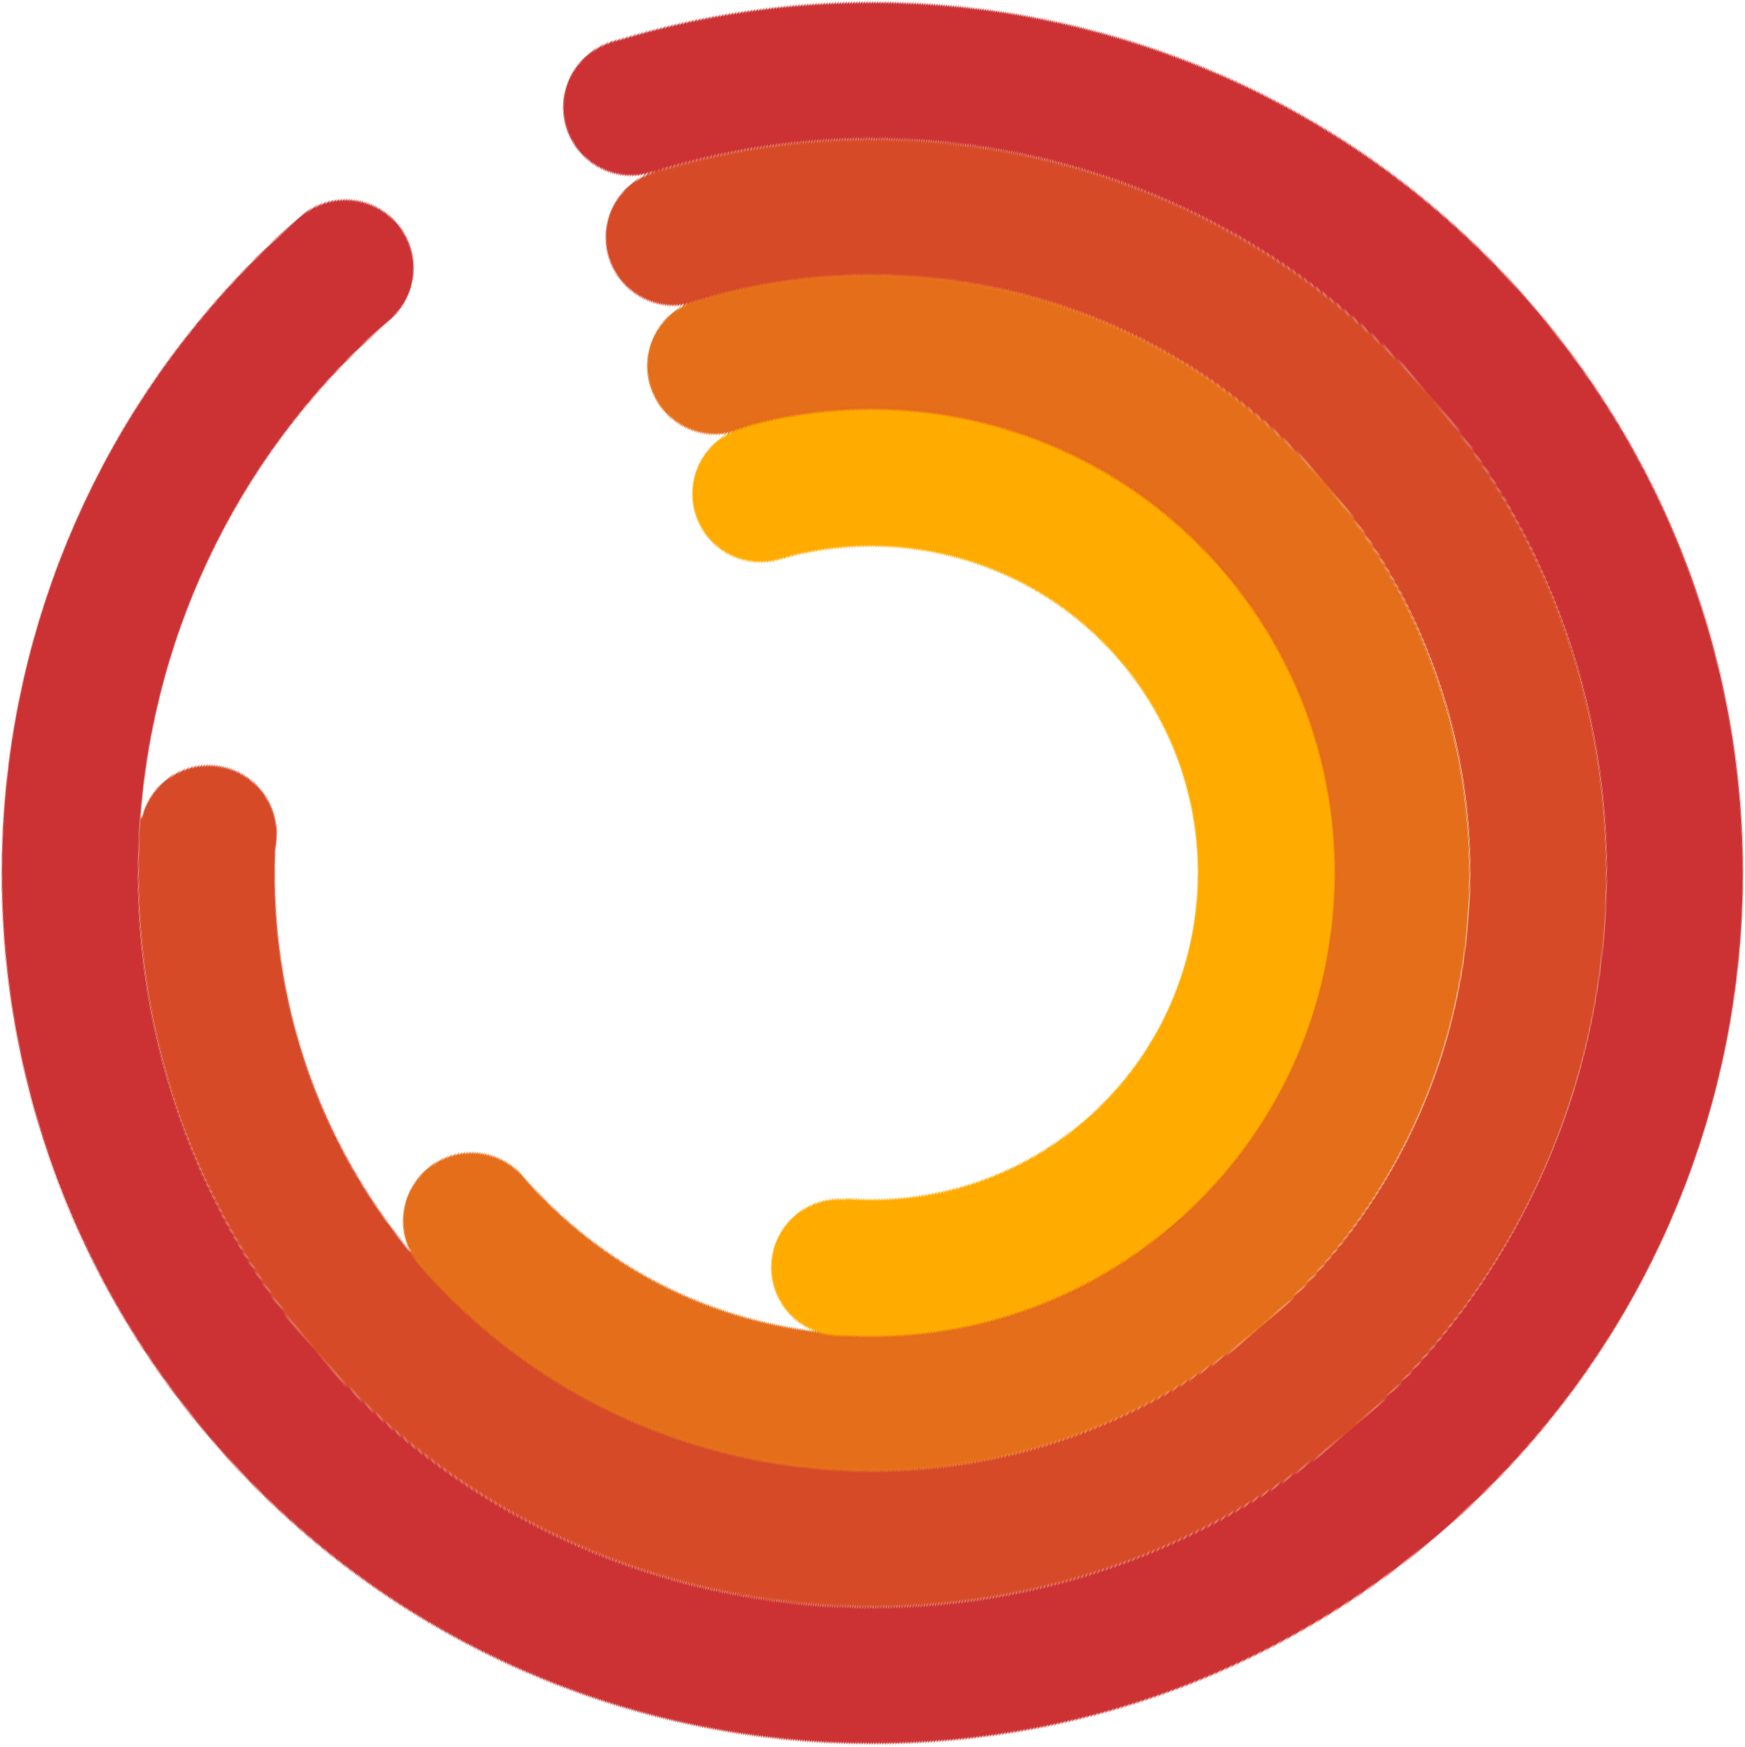
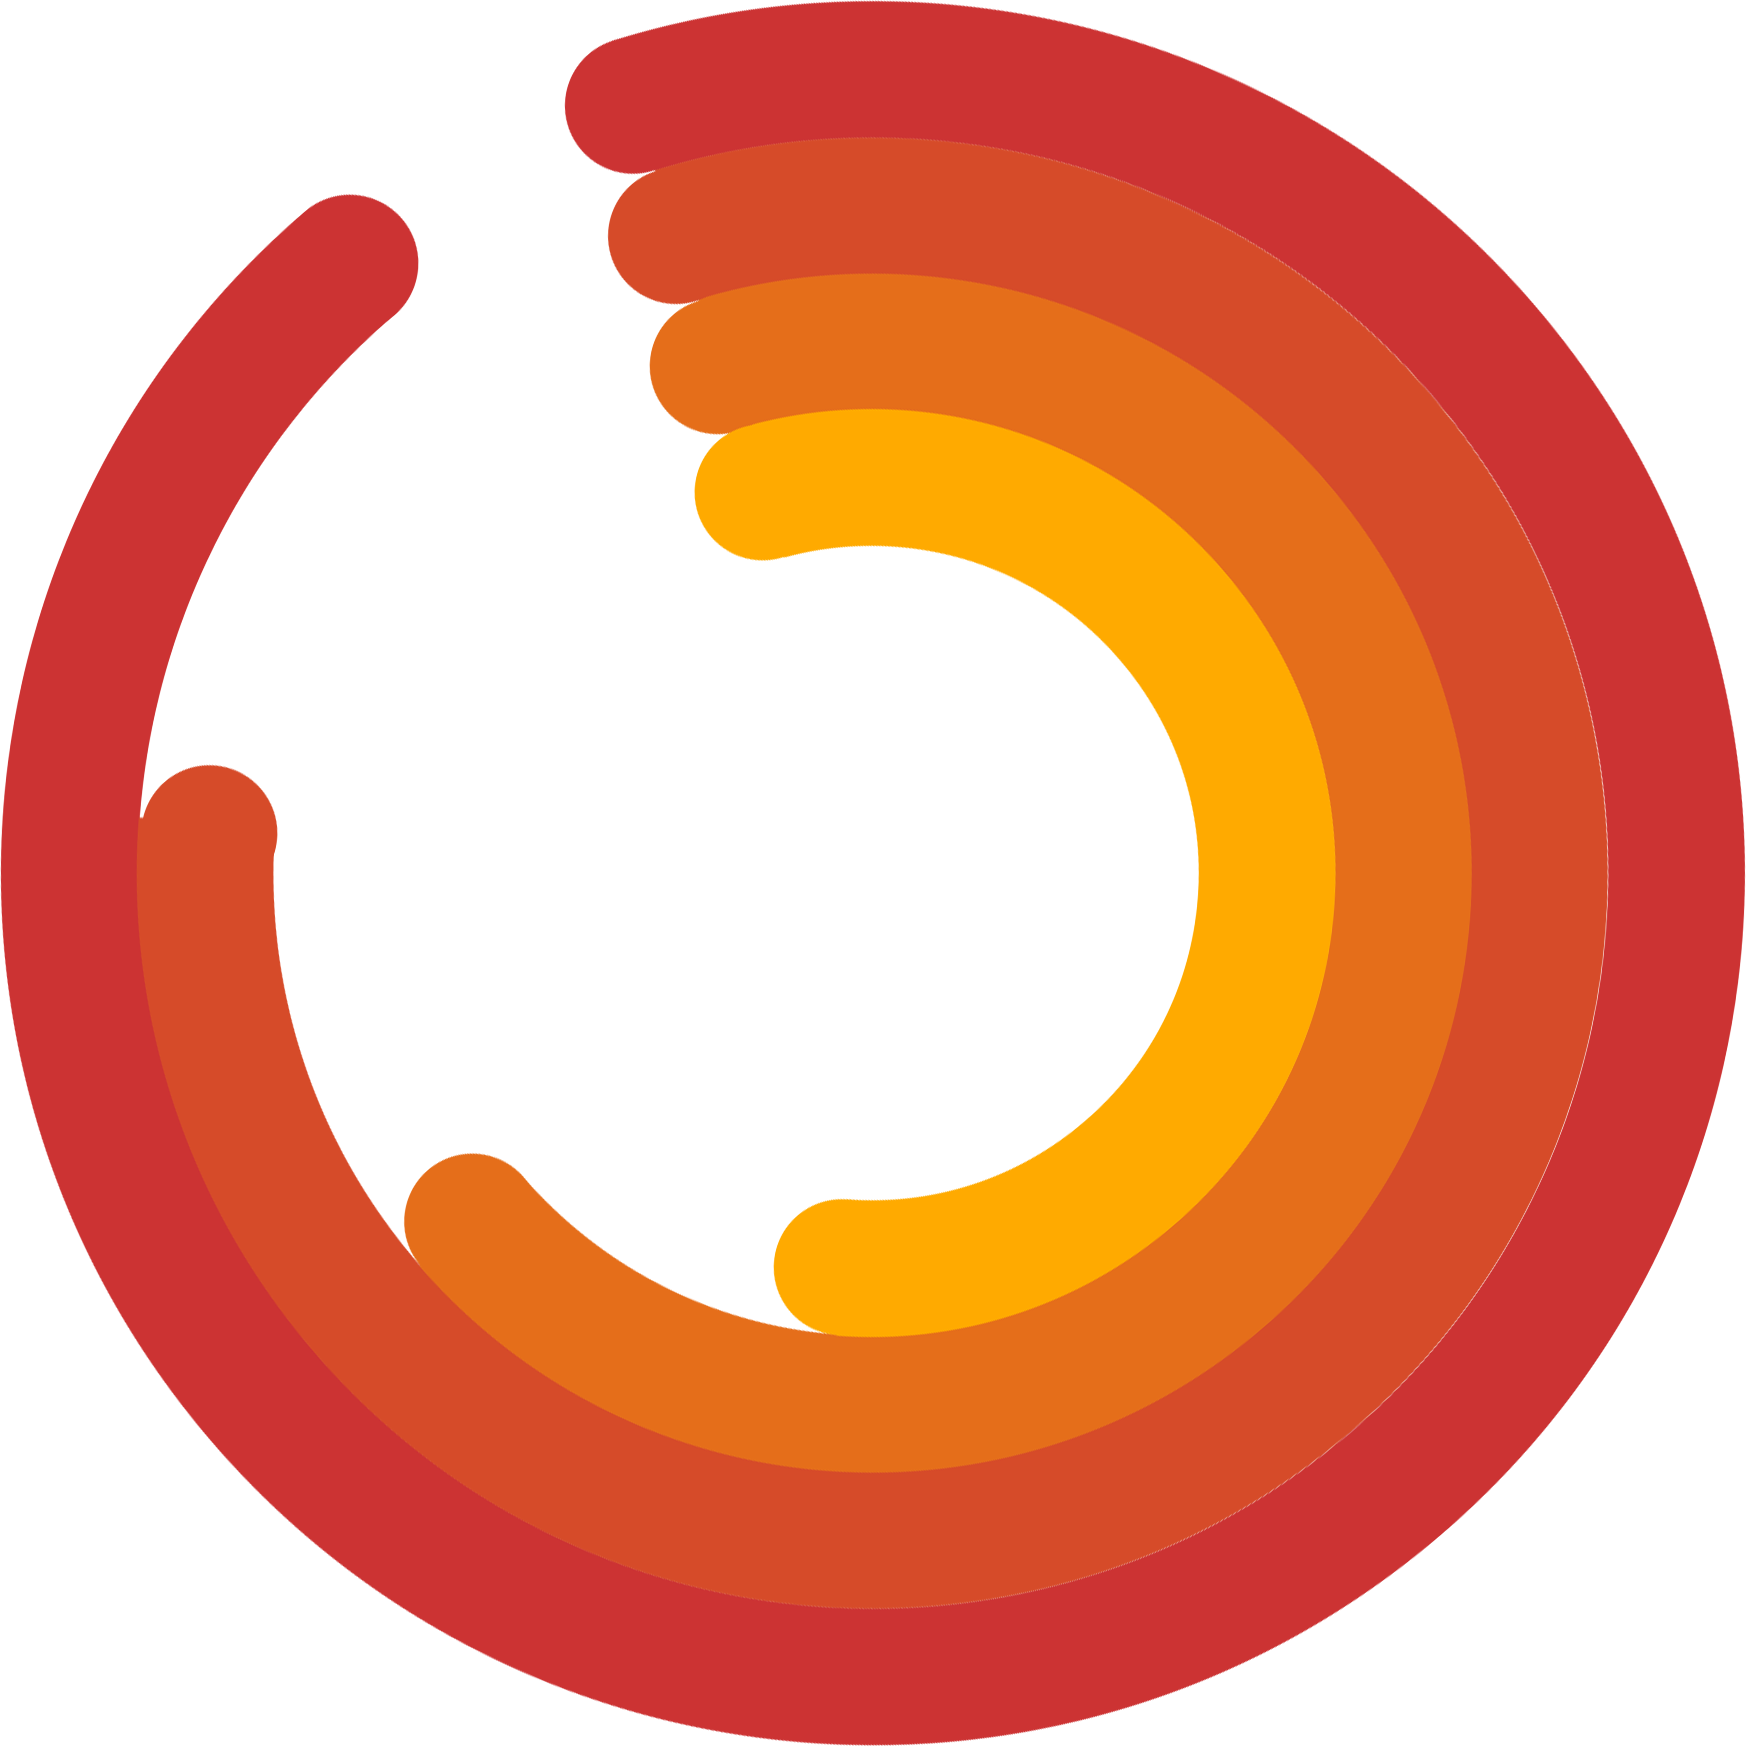
Update links and circle animation

diff --git a/index.html b/index.html
@@ -13,15 +13,15 @@
   <header class="clearfix">
     <h1 class="text-hide float-left"><img src="images/logo.png"> Pomodoro</h1>
     <ul class="nav float-right">
-      <li><a href="#">Contact Us</a></li>
-      <li><a href="#">Facebook</a></li>
-      <li><a href="#">Twitter</a></li>
-      <li><a href="#">Pinterest</a></li>
-      <li><a href="#">Youtube</a></li>
+      <li><a href="mailto:pomodorolab@gmail.com">Contact Us</a></li>
+      <li><a href="http://www.facebook.com/pomodoro.cn" target="_blank">Facebook</a></li>
+      <li><a href="https://twitter.com/pomodoro_cn" target="_blank">Twitter</a></li>
+      <li><a href="https://www.pinterest.com/pomodoro_cn" target="_blank">Pinterest</a></li>
+      <li><a href="https://www.youtube.com/channel/UCsyJV_diy_x_v0UBIafUeVw" target="_blank">Youtube</a></li>
     </ul>
   </header>
   <div class="main-content">
-    <div class="circle-bg-img"><img src="images/circle.png"></div>
+    <div class="circle-bg-img"><img src="images/circle.png"><img src="images/circle.png"></div>
     <img src="images/iphone-frame.png" class="phone-img bg-active">
     <img src="images/iphone-tasks.png" class="phone-img active" id="page_1_img">
     <img src="images/iphone-pomodoro.png" class="phone-img" id="page_2_img">
@@ -57,7 +57,7 @@
     </div>
     <div class="downloads">
       <a href="#"><img src="images/app-store.png"></a>
-      <a href="#"><img src="images/google-play.png"></a>
+      <a href="https://play.google.com/store/apps/details?id=com.ppyg.pomodorotechnique" target="_blank"><img src="images/google-play.png"></a>
     </div>
     <ol class="carousel-indicators">
       <li data-target='#page_1' class="active"></li>

diff --git a/javascripts/application.js b/javascripts/application.js
@@ -13,24 +13,20 @@ $(function() {
     }, 1000);
   };
 
-  function resetCircleImg() {
-    var bgImg = $('.circle-bg-img');
-    bgImg.removeClass('animate');
-  };
-
-  function animateCircleImg() {
-    var bgImg = $('.circle-bg-img');
-    bgImg.addClass('animate');
+  function rotateCircleImg(deg) {
+    $('.circle-bg-img img:nth-child(2)').css('transform', 'rotate(' + deg + 'deg)');
   };
 
   function gotoPage(page) {
     if (page.length > 0) {
       clearTimeout(timeout);
       $('.page.active, .phone-img.active').removeClass('active');
-      resetCircleImg();
       page.addClass('active');
       $('#' + page.attr('id') + '_img').addClass('active');
-      timeout = setTimeout(animateCircleImg, 10);
+      var deg = 90 * $('.page').index($('.page.active')) / $('.page').length;
+      timeout = setTimeout(function() {
+        rotateCircleImg(deg);
+      }, 10);
       var indicators = $('.carousel-indicators');
       indicators.children('.active').removeClass('active');
       indicators.children("[data-target='#" + page.attr('id') + "']").addClass('active');

diff --git a/stylesheets/application.css b/stylesheets/application.css
@@ -87,16 +87,12 @@ a:hover {
   overflow: hidden;
 }
 
-.circle-bg-img.animate img {
-  -webkit-transform: rotate(30deg);
-     -moz-transform: rotate(30deg);
-      -ms-transform: rotate(30deg);
-       -o-transform: rotate(30deg);
-          transform: rotate(30deg);
+.circle-bg-img img {
+  position: absolute;
+  top: 0;
   -webkit-transition: transform 2s;
        -o-transition: transform 2s;
           transition: transform 2s;
-
 }
 
 .phone-img {
